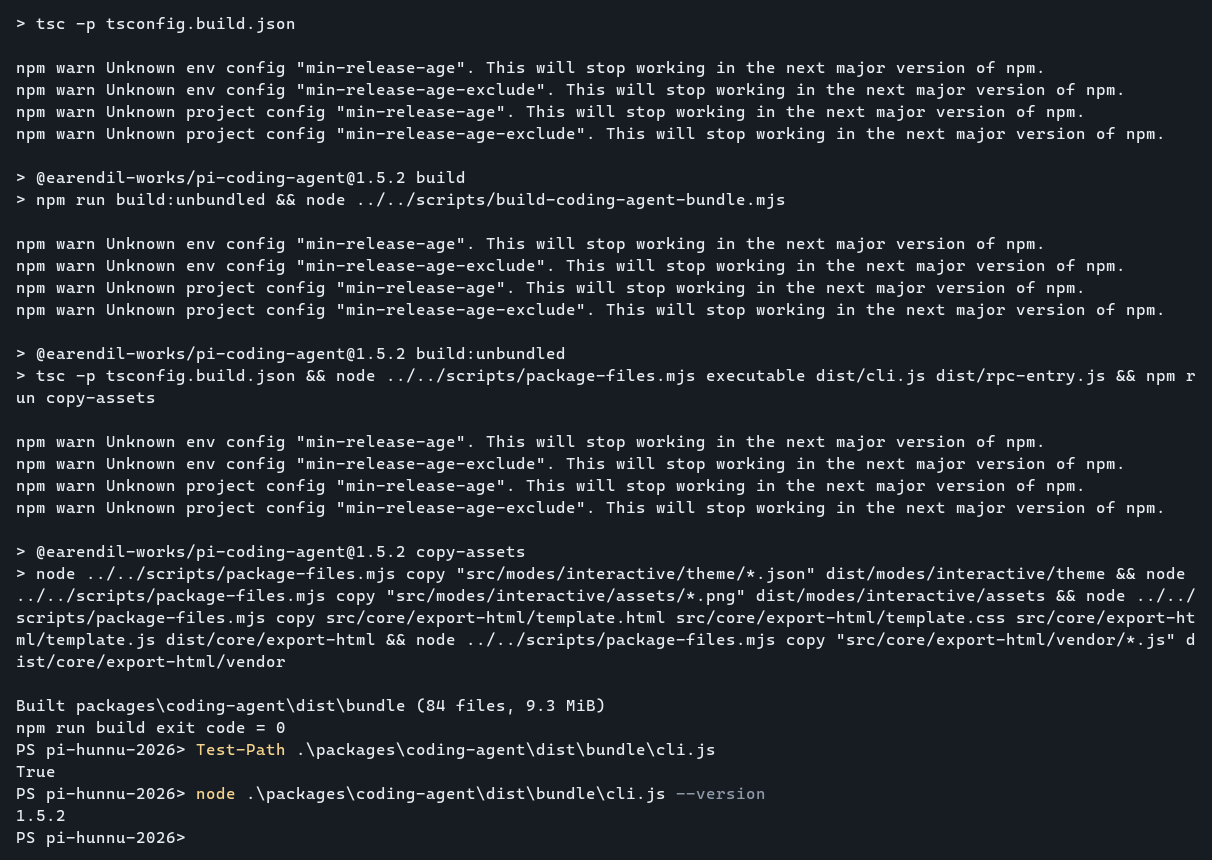
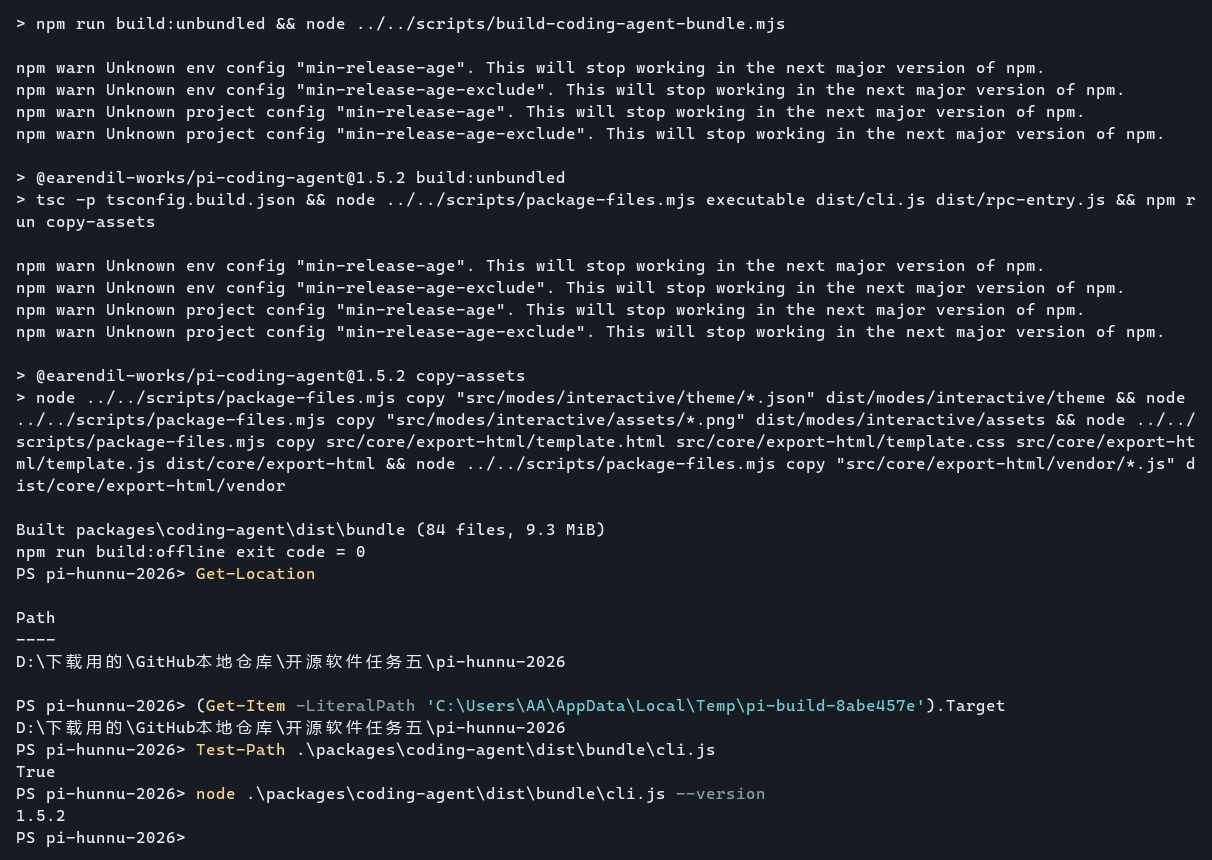
Record verification in the requested lab directory

diff --git a/README.md b/README.md
@@ -1,8 +1,8 @@
 # 实践课3：Pi Agent 源码安装与编译
 
-实验人 **liaobohan**　｜　实验日期 **2026 年 11 月 16 日**
+实验人 **liaobohan**　｜　实验日期 **2026 年 11 月 16–17 日**
 
-实验截图来自本机 Windows 伪终端实际运行的 PowerShell 和 Pi 会话。[课程实践三说明](https://github.com/hunnuOpenSourceSoftware2026/assignments/blob/main/practice/03-Pi-Agent-source-build.md)
+实验截图来自本机 Windows 伪终端实际运行的 PowerShell 和 Pi 会话。11 月 16 日完成依赖安装与审计，11 月 17 日在指定作业目录重新构建并验证源码版。[课程实践三说明](https://github.com/hunnuOpenSourceSoftware2026/assignments/blob/main/practice/03-Pi-Agent-source-build.md)
 
 ## 一、检查开发环境
 
@@ -16,7 +16,7 @@
 
 根项目在 `engines.node` 中声明 `>=22.19.0`。本机的 Node.js 24 满足要求，直接使用现有版本。
 
-![S1 PowerShell 中的 Node.js、npm 和 Git 版本](screenshots/S1-environment.png)
+![S1 指定作业目录下的 Node.js、npm 和 Git 版本](screenshots/S1-environment.png)
 
 ## 二、获取并核对小组仓库
 
@@ -30,9 +30,9 @@ git rev-parse HEAD
 git status --short
 ```
 
-实验使用实践二的小组 fork。`origin` 的拉取和推送地址一致，当前分支为 `main`，完整提交号为 `c3cc91632d0a1950fb122605b190233f2aa0006e`。实际仓库根目录为 `D:\Codex\2026-11-16\pi-agent-practice-03\pi-hunnu-2026`。[小组仓库](https://github.com/SAD-OpenStudy/pi-hunnu-2026)
+实验使用实践二的小组 fork。`origin` 的拉取和推送地址一致，当前分支为 `main`，完整提交号为 `c3cc91632d0a1950fb122605b190233f2aa0006e`。复验使用的仓库根目录为 `D:\下载用的\GitHub本地仓库\开源软件任务五\pi-hunnu-2026`。[小组仓库](https://github.com/SAD-OpenStudy/pi-hunnu-2026)
 
-克隆后工作树干净。抓取 S2 时依赖安装已经结束，`git status --short` 显示的 `M package-lock.json` 来自 npm 写回锁文件。第七节记录了差异核对结果。
+S2 中的 `git status --short` 在新克隆后没有输出，此时工作树干净。
 
 ![S2 当前目录、origin、main 分支和完整提交号](screenshots/S2-source.png)
 
@@ -61,7 +61,7 @@ $LASTEXITCODE
 
 npm 依据根 `package.json` 的依赖声明及根锁文件，解析并安装依赖到项目的 `node_modules`，同时为本地工作区建立链接。实际检查发现 `node_modules/@earendil-works/pi-coding-agent` 是指向 `packages/coding-agent` 的目录联接。`--ignore-scripts` 跳过安装阶段的 `prepare`、`postinstall` 等生命周期脚本。随后手动执行的 `npm run build` 仍会运行项目定义的构建脚本。
 
-安装输出为 `added 335 packages in 23s`，退出码 `0`。日志中的 `Unknown project config` 和 `deprecated` 属于警告，处理过程见第七节。
+首次安装输出为 `added 335 packages in 23s`，退出码 `0`。日志中的 `Unknown project config` 和 `deprecated` 属于警告，处理过程见第七节。
 
 ![S4 依赖安装命令、安装汇总和退出码 0](screenshots/S4-install.png)
 
@@ -69,25 +69,34 @@ npm 依据根 `package.json` 的依赖声明及根锁文件，解析并安装依
 
 ![S4 补图 官方 npm 注册表的独立审计结果](screenshots/S4b-audit.png)
 
+复验时使用同一源码提交，复用了已经安装的依赖。将根目录及三个子目录的 `node_modules` 复制到指定源码目录，并把工作区的目录联接建到新副本中。随后确认了编译器入口 `tsc.cmd` 可用，以及 `pi-coding-agent` 的联接目标位于指定源码目录。
+
+![S4 补图 指定目录下的编译器入口及工作区联接目标](screenshots/S4c-dependencies.png)
+
 ## 五、本地编译并验证产物
 
 ```powershell
-npm run build
+npm run build:offline
 $LASTEXITCODE
+Get-Location
 Test-Path .\packages\coding-agent\dist\bundle\cli.js
 node .\packages\coding-agent\dist\bundle\cli.js --version
 ```
 
-首次构建在 `ai` 子包执行 `generate-models`，向 models.dev、OpenRouter 和 Vercel AI Gateway 获取目录数据，生成各提供商目录及 `src/models.generated.ts`。目录数据描述模型标识、接口和能力，推理调用由配置的模型服务处理。生成数据通过校验后，根脚本继续构建其余工作区。已有有效模型目录数据时，项目提供 `npm run build:offline` 用于复用数据并重新编译。依据见 [AI 子包构建配置](https://github.com/SAD-OpenStudy/pi-hunnu-2026/blob/c3cc91632d0a1950fb122605b190233f2aa0006e/packages/ai/package.json)。
+首次执行 `npm run build` 时，`ai` 子包通过 `generate-models` 从 models.dev、OpenRouter 和 Vercel AI Gateway 等来源获取目录数据，生成各提供商目录及 `src/models.generated.ts`。目录数据描述模型标识、接口和能力，推理由配置的模型服务处理。[AI 子包构建配置](https://github.com/SAD-OpenStudy/pi-hunnu-2026/blob/c3cc91632d0a1950fb122605b190233f2aa0006e/packages/ai/package.json)
+
+在指定目录复验时，在线构建在模型目录获取阶段长时间等待。终止该次构建后，复制同一提交上一轮生成的模型目录 JSON 和清单，执行根目录的 `npm run build:offline`。该脚本先在 `ai` 子包校验目录数据，再按工作区顺序重新编译和打包。
+
+在包含中文的原路径下，单独执行 `tsc` 返回 `0`，`package-files.mjs copy` 则返回 Windows 退出码 `3221226505`（`0xC0000409`）。在指向同一源码目录的临时英文目录联接下，复制步骤返回 `0`。最终构建在指定源码目录调用 `npm run build:offline`，仅让文件复制子进程通过该联接访问同一份目录。S5 显示实际工作目录、联接目标和产物验证结果。
 
 | 验证项 | 实测结果 |
 | --- | --- |
-| 根构建退出码 | `0` |
+| 根离线构建退出码 | `0` |
 | CLI 打包汇总 | `84 files, 9.3 MiB` |
 | 本地 `dist/bundle/cli.js` 存在 | `True` |
 | 通过该路径运行 `--version` | `1.5.2` |
 
-![S5 根构建尾部、退出码、CLI 入口文件及版本](screenshots/S5-build.png)
+![S5 根离线构建尾部、实际工作目录、临时联接目标、CLI 入口及版本](screenshots/S5-build.png)
 
 ## 六、启动源码版并完成会话
 
@@ -111,7 +120,7 @@ $env:PI_CODING_AGENT_DIR = 'D:\Pi\agent'
 
 **模型实际回复**
 
-> 源码是开发者编写、可读可修改的原始程序文本，编译产物是由编译器/构建工具从源码生成、供机器直接执行的二进制或中间文件（如 .exe、.class、.o）。
+> 源码是人类可读、可编辑的原始程序文本，需要经过编译或解释才能运行；编译产物则是编译器把源码转换后生成的机器可执行文件或中间文件，人类通常难以直接阅读和修改。
 
 在本实验中，产物包括打包生成的 JavaScript，`cli.js` 入口由 Node.js 运行。
 
@@ -123,7 +132,7 @@ $env:PI_CODING_AGENT_DIR = 'D:\Pi\agent'
 
 安装和编译中出现 `Unknown project config "min-release-age"`、`"min-release-age-exclude"`。把警告名称与项目的 `.npmrc` 比对，确认这两项均出自仓库配置，本机 npm 11.6.2 提示不识别。`prebuild-install` 和 `node-domexception` 的 `deprecated` 消息表示维护状态。根据 S4、S5 的退出码和 CLI 验证结果，使用当前版本完成了实验。已知漏洞情况以 S4 补图所示的官方注册表审计为准。[根目录 .npmrc](https://github.com/SAD-OpenStudy/pi-hunnu-2026/blob/c3cc91632d0a1950fb122605b190233f2aa0006e/.npmrc)
 
-安装后用 `git diff -- package-lock.json` 查看差异，并比较前后包路径和版本。npm 调整了部分条目的 `libc` 与 `peer` 元数据，包路径集合和版本号一致。锁文件变化留在本地源码实验目录。
+首次安装后用 `git diff -- package-lock.json` 查看差异，并比较前后包路径和版本。npm 调整了部分条目的 `libc` 与 `peer` 元数据，包路径集合和版本号一致。指定目录中的新副本使用了小组提交中的锁文件。
 
 ### 2. 源码版要定位已有的模型登录配置
 
